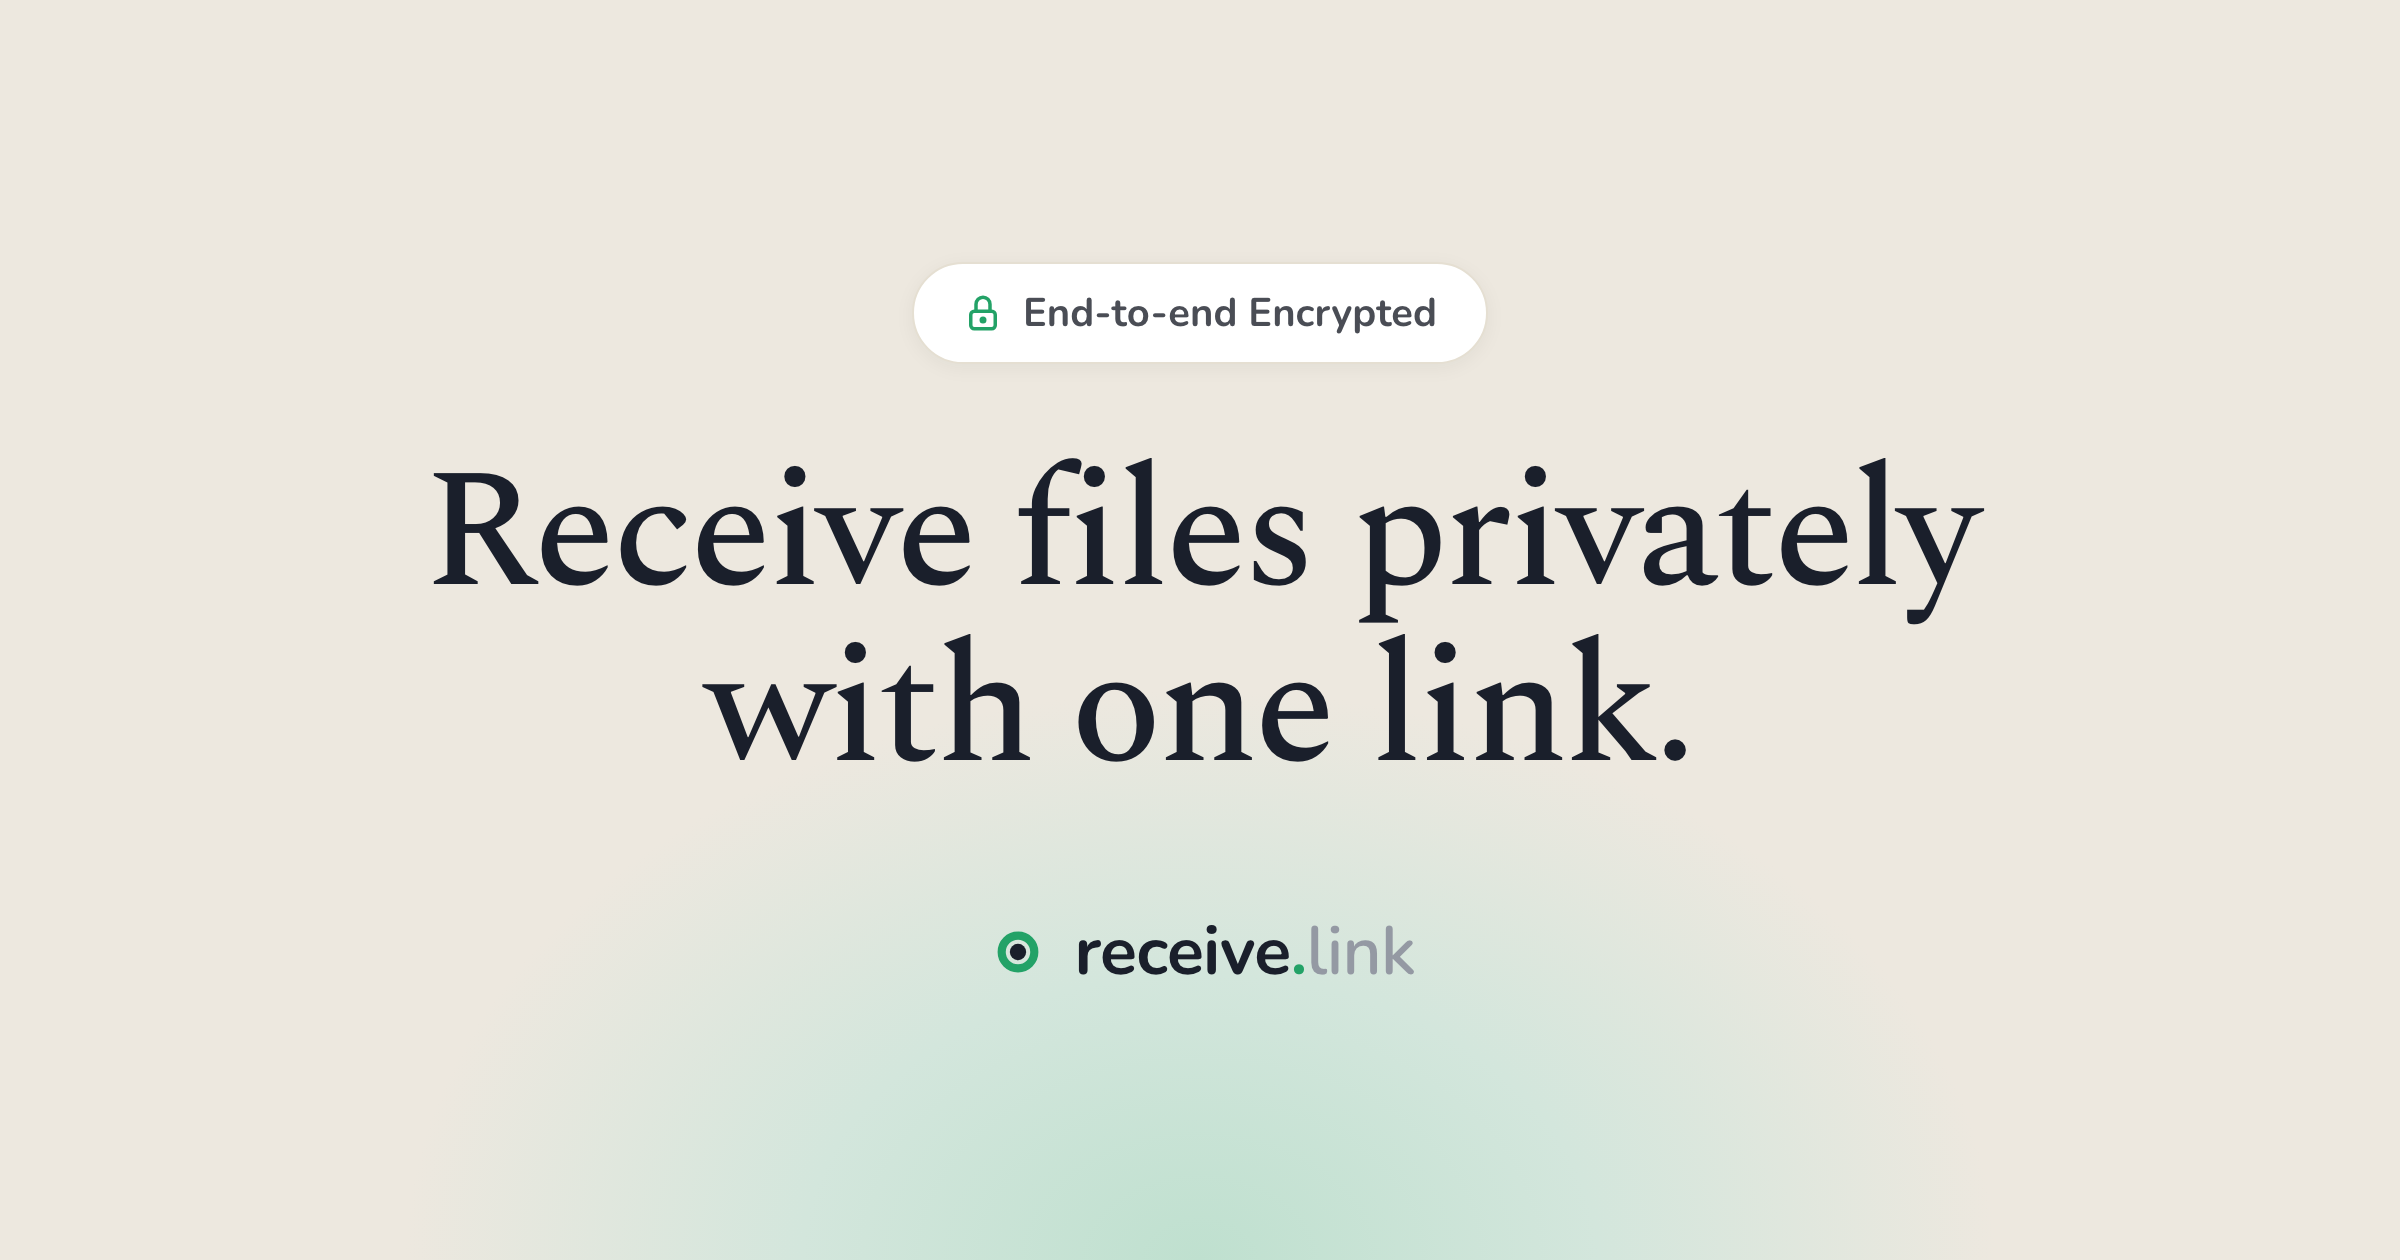
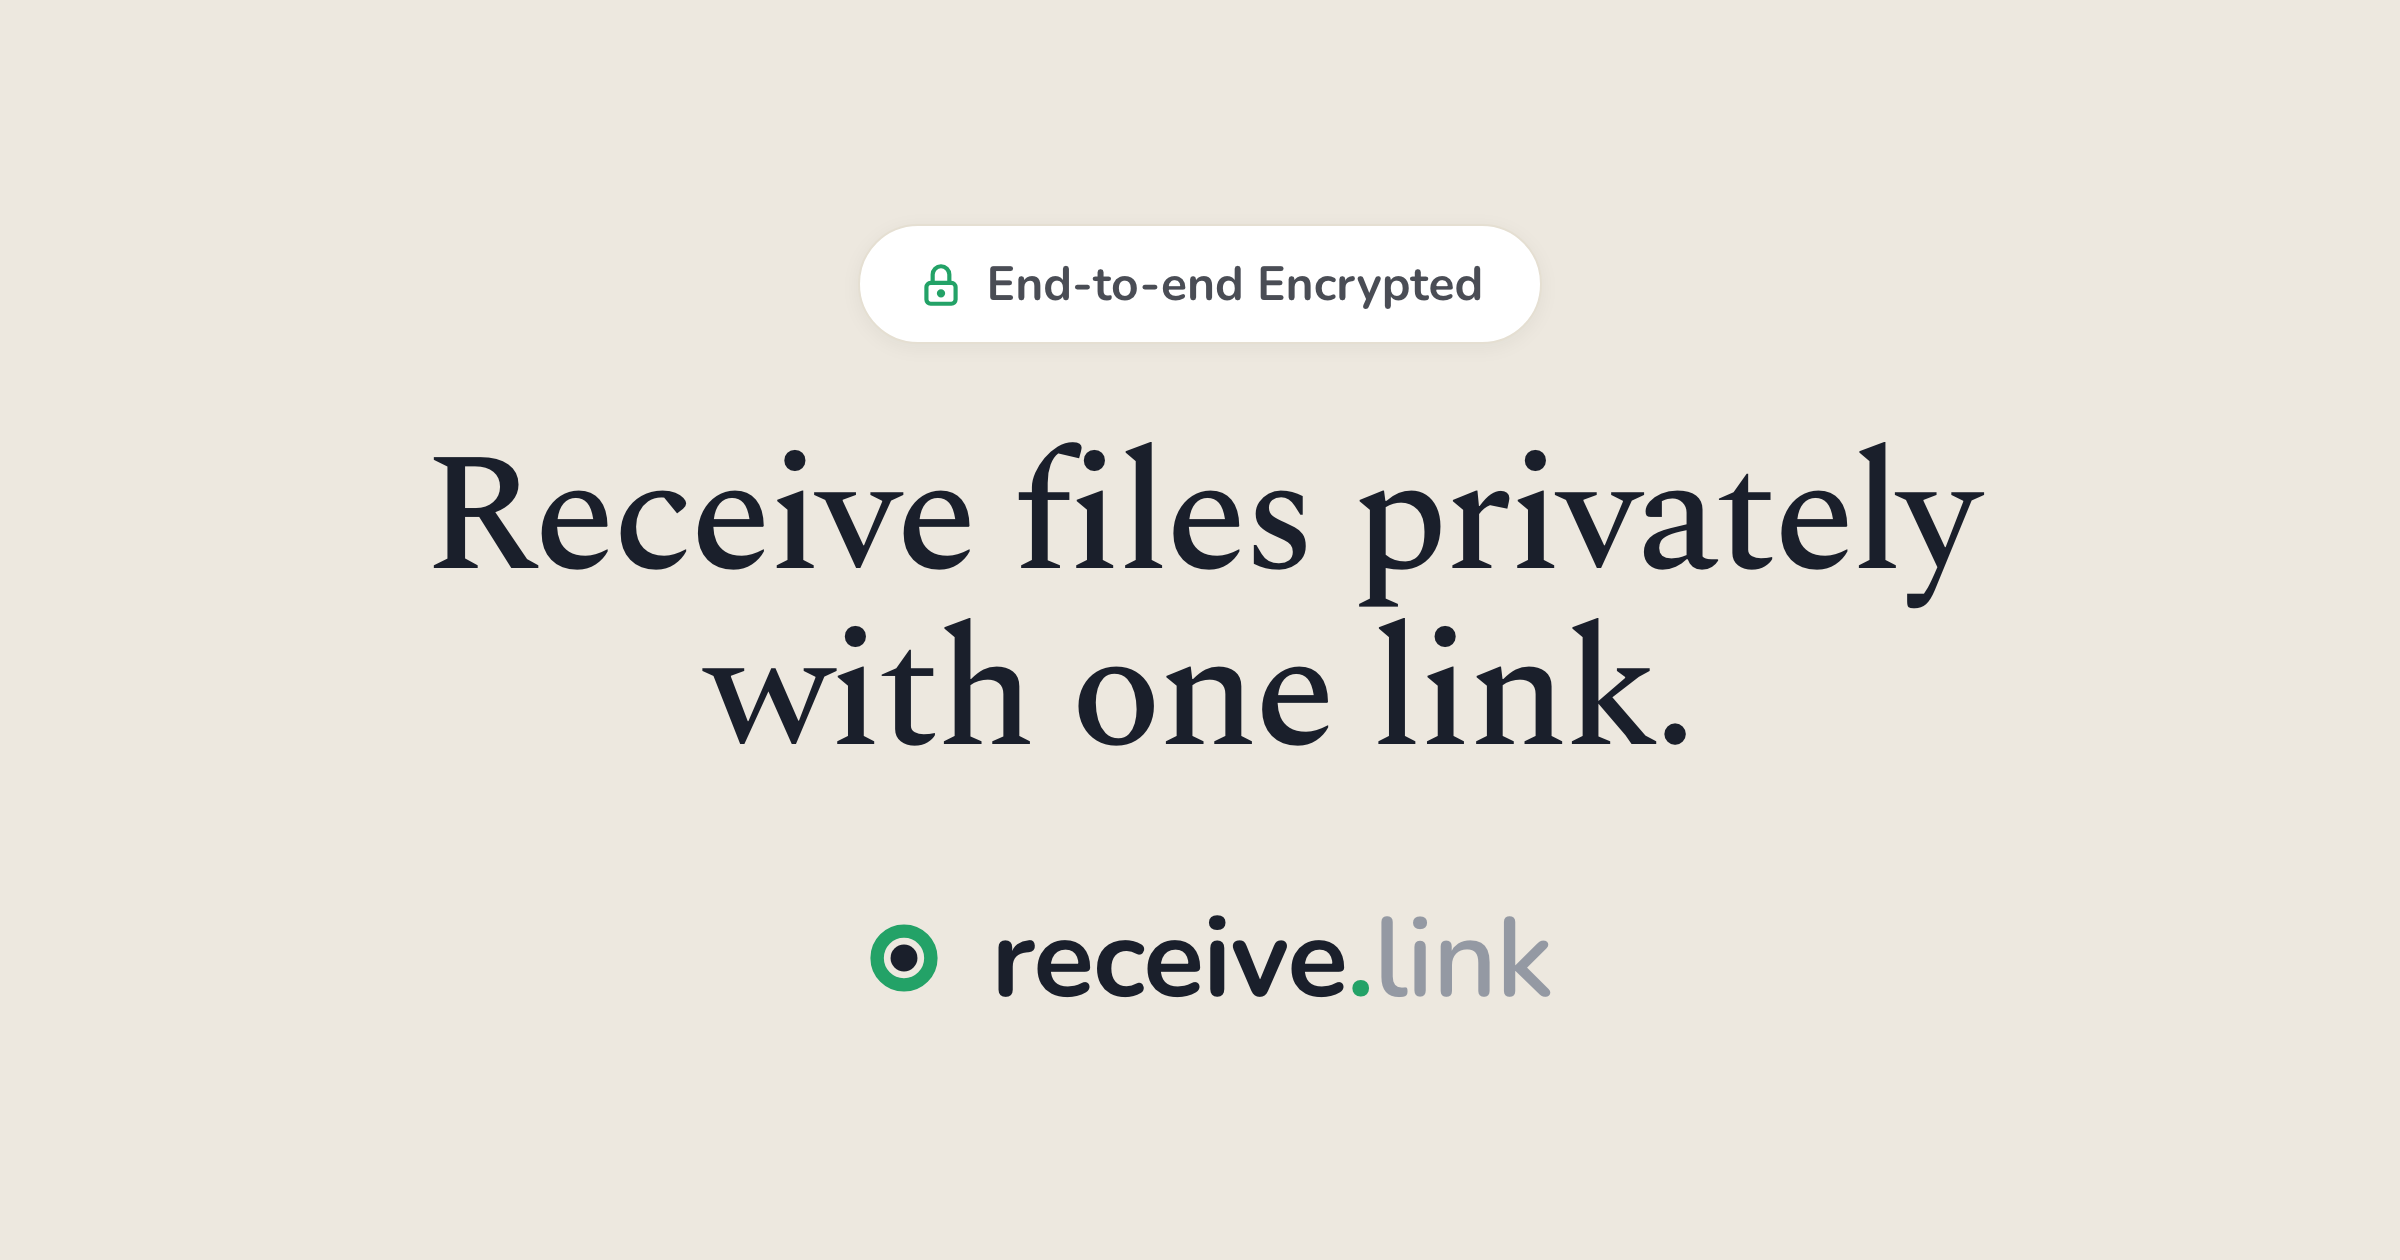
Homepage: refine the value-prop OG card + update the share description
Card (og-v2.png re-rendered): drop the green wash for a flat cream field,
enlarge the End-to-end Encrypted pill, and significantly enlarge the
receive.link wordmark for legibility. Meta: description / og:description /
twitter:description now match the hero subhead ('Anyone can send you files.
Only you can open them. Encrypted to your passkey, no accounts.').

Changed region(s): [[0.1875, 0.3405, 0.8438, 0.619], [0.3125, 0.7119, 0.6875, 1.0], [0.3438, 0.1548, 0.6562, 0.3095]]

diff --git a/web/og-card-v2.html b/web/og-card-v2.html
@@ -12,21 +12,18 @@
 @font-face{font-family:'Spectral';font-style:normal;font-weight:500;font-display:block;src:url('/home/fonts/spectral-500.woff2') format('woff2')}
 *{margin:0;padding:0;box-sizing:border-box}
 html,body{width:1200px;height:630px}
-body{position:relative;overflow:hidden;display:flex;flex-direction:column;align-items:center;justify-content:center;background:#EDE8DF;font-family:'Nunito',system-ui,sans-serif;color:#1A1F2B;-webkit-font-smoothing:antialiased}
-/* Soft green glow rising from the bottom-center, same recipe as the hero .wash */
-.wash{position:absolute;left:0;right:0;bottom:0;height:430px;background:radial-gradient(46% 92% at 50% 100%,#bfe0cf 0%,#d3e6dc 36%,rgba(237,232,223,0) 72%);pointer-events:none}
-.stack{position:relative;z-index:1;display:flex;flex-direction:column;align-items:center;text-align:center;padding:0 64px}
-.pill{display:inline-flex;align-items:center;gap:9px;font-size:20px;font-weight:700;color:#4A4D55;background:#fff;border:1px solid #E5DFD2;border-radius:30px;padding:11px 24px;box-shadow:0 2px 10px rgba(26,31,43,.05);margin-bottom:42px}
-.pill svg{width:21px;height:21px;color:#23A267;flex:none}
+body{display:flex;flex-direction:column;align-items:center;justify-content:center;background:#EDE8DF;font-family:'Nunito',system-ui,sans-serif;color:#1A1F2B;-webkit-font-smoothing:antialiased}
+.stack{display:flex;flex-direction:column;align-items:center;text-align:center;padding:0 64px}
+.pill{display:inline-flex;align-items:center;gap:10px;font-size:24px;font-weight:700;color:#4A4D55;background:#fff;border:1px solid #E5DFD2;border-radius:34px;padding:13px 28px;box-shadow:0 2px 10px rgba(26,31,43,.05);margin-bottom:44px}
+.pill svg{width:25px;height:25px;color:#23A267;flex:none}
 h1{font-family:'Spectral',Georgia,serif;font-weight:500;font-size:84px;line-height:1.04;letter-spacing:-.02em;max-width:1040px}
-.logo{display:inline-flex;align-items:center;gap:11px;margin-top:54px;font-weight:700;font-size:34px;letter-spacing:-.01em}
-.logo svg{width:34px;height:34px;flex:none}
+.logo{display:inline-flex;align-items:center;gap:16px;margin-top:50px;font-weight:700;font-size:56px;letter-spacing:-.01em}
+.logo svg{width:56px;height:56px;flex:none}
 .dotp{color:#23A267}
 .tld{color:#9499A3;font-weight:600}
 </style>
 </head>
 <body>
-  <div class="wash"></div>
   <div class="stack">
     <span class="pill"><svg viewBox="0 0 24 24" fill="none" stroke="currentColor" stroke-width="2" stroke-linecap="round" stroke-linejoin="round"><path d="M5 13a2 2 0 0 1 2 -2h10a2 2 0 0 1 2 2v6a2 2 0 0 1 -2 2h-10a2 2 0 0 1 -2 -2v-6z"/><path d="M11 16a1 1 0 1 0 2 0a1 1 0 0 0 -2 0"/><path d="M8 11v-4a4 4 0 1 1 8 0v4"/></svg>End-to-end Encrypted</span>
     <h1>Receive files privately<br>with one link.</h1>

diff --git a/web/home/index.html b/web/home/index.html
@@ -4,20 +4,20 @@
 <meta charset="utf-8">
 <meta name="viewport" content="width=device-width, initial-scale=1">
 <title>receive.link — receive files only you can open</title>
-<meta name="description" content="Share one link and anyone can send you files, locked to your passkey so only you can open them. No account, end-to-end encrypted.">
+<meta name="description" content="Anyone can send you files. Only you can open them. Encrypted to your passkey, no accounts.">
 <link rel="canonical" href="https://receive.link/">
 <meta property="og:type" content="website">
 <meta property="og:site_name" content="receive.link">
 <meta property="og:url" content="https://receive.link/">
 <meta property="og:title" content="Receive files only you can open">
-<meta property="og:description" content="Share one link. Anyone can send you files, locked to your passkey so only you can open them. No account, end-to-end encrypted.">
+<meta property="og:description" content="Anyone can send you files. Only you can open them. Encrypted to your passkey, no accounts.">
 <meta property="og:image" content="https://staging.receive.link/og-v2.png">
 <meta property="og:image:width" content="2400">
 <meta property="og:image:height" content="1260">
 <meta property="og:image:alt" content="receive.link — receive files privately">
 <meta name="twitter:card" content="summary_large_image">
 <meta name="twitter:title" content="Receive files only you can open">
-<meta name="twitter:description" content="Share one link. Anyone can send you files, locked to your passkey so only you can open them.">
+<meta name="twitter:description" content="Anyone can send you files. Only you can open them. Encrypted to your passkey, no accounts.">
 <meta name="twitter:image" content="https://staging.receive.link/og-v2.png">
 <!-- Staging cutover (when this becomes receive.link): drop the noindex below, and flip og:image + twitter:image from the staging.receive.link host to receive.link. -->
 <meta name="robots" content="noindex">